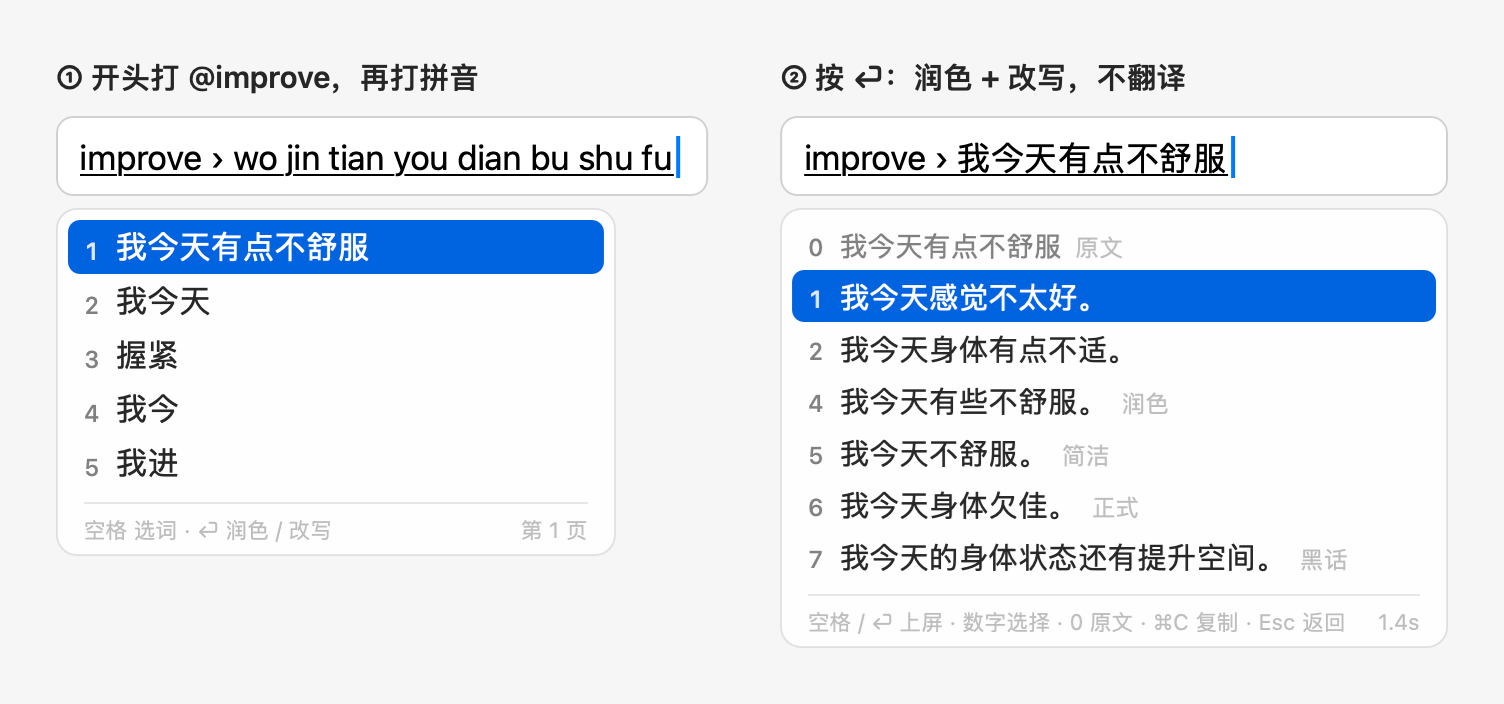
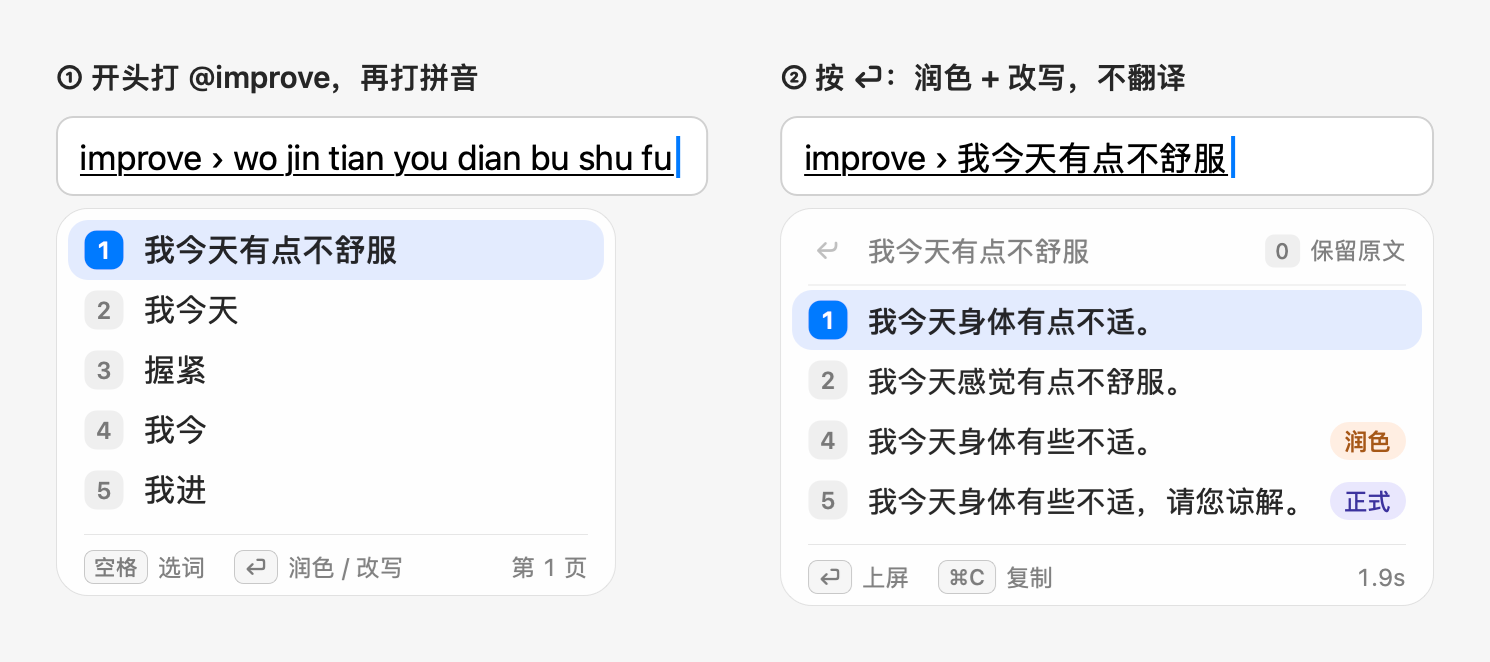
Site for 0.7.0: one @ first, new panel images
The hero and the first section are one @: @ and anything, the likeliest action first,
nothing sent or run before a row is picked. The rest checked against 0.7.0: Settings'
search for a setting in a sentence, Troubleshoot under About, ⌘⏎ to go on elsewhere,
per-app input learned, update notifications, clipboard history, Traditional pinyin,
removing a candidate. Images in the new panel look (one-at, improve, the command list
and an answer, @translate in Chinese) and Settings' Chinese (pinyin) in Traditional;
those no page shows are removed. The AI's answers in them are Apple Intelligence's.

diff --git a/site/public/zh/index.html b/site/public/zh/index.html
@@ -4,13 +4,13 @@
 <meta charset="utf-8">
 <meta name="viewport" content="width=device-width, initial-scale=1">
 <title>AllInOneIME — 在哪打字，就在哪和 AI 对话</title>
-<meta name="description" content="macOS 输入法：在任何 App 里打 @improve、@translate、@question，按回车，选结果。用你自己的 AI 服务，免费，源码公开。也是完整的拼音输入法。">
+<meta name="description" content="macOS 输入法：在任何 App 里打 @，后面写你想做的事：一个问题、要润色或翻译的句子、一个算式、要打开的 App，按回车就行。用你自己的 AI 服务，免费，源码公开。也是完整的拼音输入法。">
 <link rel="icon" href="/favicon.png">
 <link rel="apple-touch-icon" href="/apple-touch-icon.png">
 <link rel="alternate" hreflang="en" href="https://allinoneime.com/">
 <meta property="og:title" content="AllInOneIME — 在哪打字，就在哪和 AI 对话">
-<meta property="og:description" content="在 Mac 的任何 App 里打 @improve、@translate、@question，按回车，选结果。">
-<meta property="og:image" content="https://allinoneime.com/images/demo-zh.png">
+<meta property="og:description" content="在 Mac 的任何 App 里打 @，后面写你想做的事：问 AI、润色或翻译、算算式、打开 App。最可能要做的排在第一行。">
+<meta property="og:image" content="https://allinoneime.com/images/one-at-zh.png">
 <meta property="og:url" content="https://allinoneime.com/zh/">
 <link rel="stylesheet" href="/style.css">
 </head>
@@ -36,7 +36,7 @@
       <img class="hero-icon" src="/images/icon.png" alt="AllInOneIME">
       <div class="eyebrow">macOS 输入法</div>
       <h1>在哪打字，<br>就在哪和 AI 对话。</h1>
-      <p class="lead">在 Mac 的任何 App 里，开头打 <code>@improve</code>、<code>@translate</code> 或 <code>@question</code>，按回车，选一个结果。不用复制到聊天窗口，也不用切换 App。</p>
+      <p class="lead">在 Mac 的任何 App 里打 <code>@</code>，后面写你想做的事：一个问题、要润色或翻译的句子、一个算式、要打开的 App。最可能要做的排在第一行，按回车就行。</p>
       <div class="cta">
         <a class="btn btn-primary" href="/download">
           <svg viewBox="0 0 24 24" fill="currentColor" aria-hidden="true"><path d="M16.4 12.6c0-2.6 2.1-3.8 2.2-3.9-1.2-1.8-3.1-2-3.7-2-1.6-.2-3.1.9-3.9.9-.8 0-2-.9-3.4-.9-1.7 0-3.3 1-4.2 2.6-1.8 3.1-.5 7.7 1.3 10.2.9 1.2 1.9 2.6 3.2 2.6 1.3-.1 1.8-.8 3.3-.8 1.6 0 2 .8 3.4.8 1.4 0 2.3-1.3 3.1-2.5 1-1.4 1.4-2.8 1.4-2.9 0 0-2.7-1-2.7-4.1zM13.9 4.9c.7-.9 1.2-2.1 1.1-3.3-1 0-2.3.7-3 1.6-.7.8-1.2 2-1.1 3.2 1.2.1 2.3-.6 3-1.5z"/></svg>
@@ -45,20 +45,35 @@
         <a class="btn btn-ghost" href="https://github.com/MicroZ-LLC/AllInOneIME">在 GitHub 上看</a>
       </div>
       <p class="fineprint">免费 · macOS 14 及以上 · Apple 芯片和 Intel 都能用 · 经过 Apple 公证</p>
-      <div class="shot fade"><img src="/images/demo-zh.png" alt="开头打 @translate 再打拼音，按回车：三种地道的英文说法"></div>
+      <div class="shot fade"><img src="/images/one-at-zh.png" alt="@ 后面打算式、App 名的拼音首字母、带时间的一句话或一个问题：最可能要做的排在第一行"></div>
     </div>
   </div>
 
   <section id="features">
     <div class="wrap">
+      <div class="section-head fade">
+        <h2>打 @，后面随便写。</h2>
+        <p>不用记命令名：每一行都写着回车会做什么。选中一行之前，什么都不发给 AI，什么也不会运行。</p>
+      </div>
+      <div class="grid fade">
+        <div class="card"><div class="cmd"><span class="dot" style="background:#8b5cf6">@</span>命令</div><p>打命令名的开头就能找到它：<code>@tr</code> 就是 <code>@translate</code>。单打一个 <code>@</code> 列出所有命令，常用的在前。</p></div>
+        <div class="card"><div class="cmd"><span class="dot" style="background:#64748b">=</span>算式</div><p><code>@3*7+2</code> 边打边显示 23，回车就填进去。</p></div>
+        <div class="card"><div class="cmd"><span class="dot" style="background:#0ea5e9">↗</span>App 和网址</div><p><code>@xtsz</code> 就是「系统设置」：App 的中文名，用拼音或首字母也能找到。文件夹和网址也一样，回车打开。</p></div>
+        <div class="card"><div class="cmd"><span class="dot" style="background:#ef4444">◷</span>提醒</div><p><code>@明天下午3点开会</code>，回车就加到「提醒事项」里，时间是明天 15:00。</p></div>
+      </div>
+    </div>
+  </section>
+
+  <section class="tight">
+    <div class="wrap">
       <div class="split fade">
         <div class="split-text">
           <span class="tag">@improve</span>
           <h3>写在哪里，就在哪里改得更好。</h3>
-          <p>先给三种润色后的说法，再按你选的风格改写：简洁、正式、口语、委婉，还有大厂黑话。都用你写的那种语言。</p>
+          <p>打 <code>@</code> 再写一句话，第一行就是「改写」。回车先给三种润色后的说法，再按你选的风格改写：简洁、正式、口语、委婉，还有大厂黑话。都用你写的那种语言。</p>
           <p>按数字选一个，或者直接回车选第一个；<code>0</code> 保留原文。</p>
         </div>
-        <div class="shot"><img src="/images/improve-zh.png" alt="@improve 加拼音，按回车：润色和改写" loading="lazy"></div>
+        <div class="shot"><img src="/images/improve-zh.png" alt="@improve 加拼音，按回车：润色和改写，每种风格一个彩色标签" loading="lazy"></div>
       </div>
     </div>
   </section>
@@ -69,10 +84,10 @@
         <div class="split-text">
           <span class="tag">@translate · @question</span>
           <h3>翻译成你要的语言，有问题直接问。</h3>
-          <p><code>@translate</code> 按你排的顺序，每种语言出一行：英文、日语、法语、德语、西班牙语等等。</p>
-          <p><code>@question</code> 直接给答案，可以上屏，也可以 ⌘C 复制。单打一个 <code>@</code> 就是命令列表。</p>
+          <p><code>@translate</code> 按你排的顺序，每种语言出一行：英文、日语、法语、德语、西班牙语等等。写的是别的语言，第一行就是翻译。</p>
+          <p>写的是问题，第一行就是「问 AI」，答案直接显示在原地：可以上屏，也可以 ⌘C 复制。</p>
         </div>
-        <div class="shot"><img src="/images/commands-zh.png" alt="打 @ 弹出命令列表；@question 加问题，回车出答案" loading="lazy"></div>
+        <div class="shot"><img src="/images/demo-zh.png" alt="开头打 @translate 再打拼音，按回车：三种地道的英文说法" loading="lazy"></div>
       </div>
     </div>
   </section>
@@ -81,13 +96,13 @@
     <div class="wrap">
       <div class="section-head fade">
         <h2>能接着问，说一句就设置好。</h2>
-        <p>答案出来可以接着问。改设置说一句就行，整套设置也能一句话查一遍。</p>
+        <p>答案出来可以接着问。改设置说一句就行，整套设置也能一键查一遍。</p>
       </div>
       <div class="grid fade">
-        <div class="card"><div class="cmd"><span class="dot" style="background:#a855f7">⇄</span>接着问</div><p><code>@question</code> 的答案出来后，接着打下一个问题再按 ⇧回车：候选框变成一段对话，最多 5 轮。</p></div>
-        <div class="card"><div class="cmd"><span class="dot" style="background:#f97316">↗</span>换个地方接着聊</div><p>按 ⌘1、⌘2… 把对话照你看到的样子带到你的编程 agent（Claude Code…）、Claude、ChatGPT 或 Gemini，连同你接着打的话。</p></div>
-        <div class="card"><div class="cmd"><span class="dot" style="background:#a855f7">✦</span>一句话改设置</div><p>设置打开就是「助手」：写「候选竖排」「用 Claude」，每项改动先列出原来 → 改成再应用，还能撤销。不碰你的密钥。</p></div>
-        <div class="card"><div class="cmd"><span class="dot" style="background:#22c55e">✚</span>检查问题</div><p>设置 → 助手检查输入法、AI 服务、权限和语言包，能修的点「修复」就行。也可以问它哪里不对。</p></div>
+        <div class="card"><div class="cmd"><span class="dot" style="background:#a855f7">⇄</span>接着问</div><p>答案出来后，接着打下一个问题再按 ⇧回车：候选框变成一段对话，默认最多 5 轮。</p></div>
+        <div class="card"><div class="cmd"><span class="dot" style="background:#f97316">↗</span>换个地方接着聊</div><p>按 ⌘回车，把对话照你看到的样子带到你的编程 agent（Claude Code…）、Claude 或 ChatGPT 里接着聊。</p></div>
+        <div class="card"><div class="cmd"><span class="dot" style="background:#a855f7">✦</span>一句话改设置</div><p>在设置的搜索框里写「候选竖排」「用 Claude」：每项改动先列出原来 → 改成再应用，还能撤销。不碰你的密钥。</p></div>
+        <div class="card"><div class="cmd"><span class="dot" style="background:#22c55e">✚</span>排查问题</div><p>设置 →「关于」→「排查问题」检查输入法、AI 服务、权限和语言包，能修的给你一个按钮。也可以问它哪里不对。</p></div>
       </div>
     </div>
   </section>
@@ -100,13 +115,11 @@
       </div>
       <div class="grid fade">
         <div class="card"><div class="cmd"><span class="dot" style="background:#3b82f6">↻</span>修改结果</div><p>结果出来后打「更短」「更正式」再按 ⇧回车，新结果就地替换，想改几次都行。</p></div>
-        <div class="card"><div class="cmd"><span class="dot" style="background:#14b8a6">▭</span>选中的文字</div><p>在任何 App 里选中一段文字，再打 <code>@improve</code> 或 <code>@translate</code>：选好的结果替换选中的文字。</p></div>
-        <div class="card"><div class="cmd"><span class="dot" style="background:#a855f7">?</span>最近的问题</div><p>单打 <code>@question</code> 列出最近 5 个问题，当时的答案马上就能看，不联网。</p></div>
-        <div class="card"><div class="cmd"><span class="dot" style="background:#f59e0b">▦</span>按 App 设置</div><p>Slack 里用英文，微信里用拼音，邮件里正式、委婉，或者某个 App 里干脆不用 AI。</p></div>
+        <div class="card"><div class="cmd"><span class="dot" style="background:#14b8a6">▭</span>选中的文字</div><p>在任何 App 里选中一段文字再打 <code>@</code>：翻译、改写，在聊天 App 里还能回复，或者就这段文字提问。选好的版本替换选中的文字。</p></div>
+        <div class="card"><div class="cmd"><span class="dot" style="background:#f59e0b">▦</span>按 App 设置</div><p>每个 App 会记住你在那里先用哪种输入。也可以让某些 App 里干脆不用 AI。</p></div>
         <div class="card"><div class="cmd"><span class="dot" style="background:#334155">●</span>隐藏敏感信息</div><p>打开后，邮箱、电话、卡号、密钥和你自己加的词，发给 AI 前先换成占位符，结果里再换回来。</p></div>
         <div class="card"><div class="cmd"><span class="dot" style="background:#0ea5e9">◎</span>Apple Intelligence</div><p>Mac 支持 Apple Intelligence（macOS 26）时，可以用 macOS 自带的模型：不用 key，不花钱，不离开这台 Mac。</p></div>
-        <div class="card"><div class="cmd"><span class="dot" style="background:#22c55e">↓</span>应用内更新</div><p>设置 →「关于」发现新版本，点一下就装好，装之前先和签名的更新信息核对。</p></div>
-        <div class="card"><div class="cmd"><span class="dot" style="background:#ef4444">!</span>@reportissue</div><p>打开 GitHub 的新问题页，带上你写的标题、App 的版本和设置；不带你别的文字、路径和密钥。</p></div>
+        <div class="card"><div class="cmd"><span class="dot" style="background:#22c55e">↓</span>应用内更新</div><p>有新版本时会发通知，点「更新」一下就装好；装之前先和签名的更新信息核对。</p></div>
       </div>
     </div>
   </section>
@@ -115,15 +128,14 @@
     <div class="wrap">
       <div class="section-head fade">
         <h2>不只是写字，整台 Mac 都能用。</h2>
-        <p>每个命令都以 <code>@</code> 开头，在任何输入框里都能用。</p>
+        <p>在任何输入框里，<code>@</code> 后面打命令名就行。</p>
       </div>
       <div class="grid fade">
         <div class="card"><div class="cmd"><span class="dot" style="background:#f97316">✦</span>@agent</div><p>把任务交给你的编程 agent（Claude Code、Gemini CLI、Kiro CLI…）；Claude Code 可以在后台做，做完通知你。</p></div>
-        <div class="card"><div class="cmd"><span class="dot" style="background:#64748b">⌕</span>@open</div><p>边打边找文件、文件夹和 App，也能打开网址。</p></div>
         <div class="card"><div class="cmd"><span class="dot" style="background:#eab308">✎</span>@note</div><p>把文字存进「备忘录」，换行都保留。</p></div>
-        <div class="card"><div class="cmd"><span class="dot" style="background:#ef4444">◷</span>@reminder</div><p>加一个提醒，时间直接写在里面：「明天下午3点给张三打电话」。</p></div>
         <div class="card"><div class="cmd"><span class="dot" style="background:#0ea5e9">›_</span>@py · @js</div><p>运行一行 Python 或 JavaScript，把结果上屏。</p></div>
         <div class="card"><div class="cmd"><span class="dot" style="background:#10b981">✉</span>@imessage</div><p>不离开当前 App 就能发 iMessage。</p></div>
+        <div class="card"><div class="cmd"><span class="dot" style="background:#64748b">⌃V</span>剪贴板历史</div><p>按 ⌃V 列出复制过的文字和图片；指着图片那一行就能看大图。</p></div>
         <div class="card"><div class="cmd"><span class="dot" style="background:#8b5cf6">＋</span>自己加</div><p>自己的 AI 指令、程序、网页链接，还有签过名的插件库里的 <code>@stock</code>、<code>@calculator</code> 等插件。</p></div>
       </div>
     </div>
@@ -162,15 +174,15 @@
     <div class="wrap">
       <div class="section-head fade">
         <h2>你的 AI，你的密钥，你的 Mac。</h2>
-        <p>只连你选的 AI 服务，用你自己的密钥，而且只在你对命令按回车的时候。</p>
+        <p>只连你选的 AI 服务，用你自己的密钥，而且只在你让它做事的时候。</p>
       </div>
       <div class="pillars fade">
-        <div class="card pillar"><h4>打字时什么都不发</h4><p>只有执行命令时才发出去。密码框和其他安全输入时，从不发送。</p></div>
+        <div class="card pillar"><h4>选中之前什么都不发</h4><p><code>@</code> 后面打的字，在你选中 AI 那一行之前都留在本机；打开「续写」的话，停顿时会发出去。安全输入时（比如密码框）没有 AI 那几行。</p></div>
         <div class="card pillar"><h4>密钥在钥匙串里</h4><p>API 密钥存在 macOS 钥匙串里，每个只发给保存时的那个服务。</p></div>
-        <div class="card pillar"><h4>能在本机的都在本机</h4><p><code>@open</code>、<code>@note</code> 和 <code>@reminder</code> 都不离开你的 Mac。</p></div>
+        <div class="card pillar"><h4>能在本机的都在本机</h4><p><code>@</code> 后面那几行都在本机算出来；算式、App、文件夹和 <code>@reminder</code> 都不离开你的 Mac。</p></div>
         <div class="card pillar"><h4>敏感内容先隐藏</h4><p>可以打开：邮箱、号码、密钥和你列出的词，请求发出前先在本机换成占位符。</p></div>
-        <div class="card pillar"><h4>也可以完全不上云</h4><p>macOS 26 上用 Apple Intelligence，由 Mac 自带的模型回答。你指定的 App 里，干脆不用 AI。</p></div>
-        <div class="card pillar"><h4>签名并经过公证</h4><p>用 Developer ID 签名，经过 Apple 公证。更新装之前先和签名的更新信息核对。</p></div>
+        <div class="card pillar"><h4>也可以完全不上云</h4><p>macOS 26 上选 Apple Intelligence，由 Mac 自带的模型回答。你指定的 App 里，干脆不用 AI。</p></div>
+        <div class="card pillar"><h4>签名并经过公证</h4><p>用 Developer ID 签名，经过 Apple 公证。更新先和签名的更新信息核对，才会安装。</p></div>
       </div>
       <div class="providers fade">
         <span>Amazon Bedrock</span><span>Claude API</span><span>Gemini</span><span>OpenAI</span><span>DeepSeek</span><span>Ollama（本机）</span><span>Apple Intelligence（本机）</span>
@@ -184,10 +196,11 @@
         <div class="split-text">
           <span class="tag">输入语言</span>
           <h3>英文、中文、法语、韩语、印地语。</h3>
-          <p>中文用拼音（基于 Rime 和雾凇拼音，分不清的音可以开模糊音），法语用它自己的键盘布局，韩语打谚文，印地语用拉丁字母拼出天城文。单按 Shift 切到下一种。</p>
+          <p>中文用拼音（基于 Rime 和雾凇拼音，分不清的音可以开模糊音），简体、繁体（台湾或香港）都能打；法语用它自己的键盘布局，韩语打谚文，印地语用拉丁字母拼出天城文。单按 Shift 切到下一种。</p>
+          <p>不想再看到的候选词，右键一下就永久删掉；想找回来，在设置里恢复。</p>
           <p>中文、韩语和印地语是语言包，添加时下载。</p>
         </div>
-        <div class="shot"><img src="/images/settings-languages-zh.png" alt="设置：五种输入语言，和韩语的语言包" loading="lazy"></div>
+        <div class="shot"><img src="/images/settings-chinese-zh.png" alt="设置 → 输入：中文拼音打繁体（台湾），开着模糊音" loading="lazy"></div>
       </div>
     </div>
   </section>

diff --git a/site/public/index.html b/site/public/index.html
@@ -4,13 +4,13 @@
 <meta charset="utf-8">
 <meta name="viewport" content="width=device-width, initial-scale=1">
 <title>AllInOneIME — Talk to AI wherever you type</title>
-<meta name="description" content="A macOS input method with AI commands in every text field: type @improve, @translate or @question in any app, press Return, pick the result. Your own AI provider, or Apple Intelligence on your Mac. Free, with source on GitHub.">
+<meta name="description" content="A macOS input method with AI in every text field: type @ and anything in any app, a question, a sentence to improve or translate, a sum, an app to open, and press Return. Your own AI provider, or Apple Intelligence on your Mac. Free, with source on GitHub.">
 <link rel="icon" href="/favicon.png">
 <link rel="apple-touch-icon" href="/apple-touch-icon.png">
 <link rel="alternate" hreflang="zh" href="https://allinoneime.com/zh/">
 <meta property="og:title" content="AllInOneIME — Talk to AI wherever you type">
-<meta property="og:description" content="Type @improve, @translate or @question in any app on your Mac, press Return, pick the result.">
-<meta property="og:image" content="https://allinoneime.com/images/demo.png">
+<meta property="og:description" content="Type @ and anything in any app on your Mac: ask the AI, improve or translate a sentence, work out a sum, open an app. The likeliest action comes first.">
+<meta property="og:image" content="https://allinoneime.com/images/one-at.png">
 <meta property="og:url" content="https://allinoneime.com/">
 <link rel="stylesheet" href="/style.css">
 </head>
@@ -36,7 +36,7 @@
       <img class="hero-icon" src="/images/icon.png" alt="AllInOneIME">
       <div class="eyebrow">An input method for macOS</div>
       <h1>Talk to AI<br>wherever you type.</h1>
-      <p class="lead">Type <code>@improve</code>, <code>@translate</code> or <code>@question</code> in any app on your Mac, press Return, and pick the result. No copying into a chat window, no switching apps.</p>
+      <p class="lead">Type <code>@</code> and anything, in any app on your Mac: a question, a sentence to improve or translate, a sum, an app to open. The likeliest action comes first; press Return.</p>
       <div class="cta">
         <a class="btn btn-primary" href="/download">
           <svg viewBox="0 0 24 24" fill="currentColor" aria-hidden="true"><path d="M16.4 12.6c0-2.6 2.1-3.8 2.2-3.9-1.2-1.8-3.1-2-3.7-2-1.6-.2-3.1.9-3.9.9-.8 0-2-.9-3.4-.9-1.7 0-3.3 1-4.2 2.6-1.8 3.1-.5 7.7 1.3 10.2.9 1.2 1.9 2.6 3.2 2.6 1.3-.1 1.8-.8 3.3-.8 1.6 0 2 .8 3.4.8 1.4 0 2.3-1.3 3.1-2.5 1-1.4 1.4-2.8 1.4-2.9 0 0-2.7-1-2.7-4.1zM13.9 4.9c.7-.9 1.2-2.1 1.1-3.3-1 0-2.3.7-3 1.6-.7.8-1.2 2-1.1 3.2 1.2.1 2.3-.6 3-1.5z"/></svg>
@@ -45,20 +45,35 @@
         <a class="btn btn-ghost" href="https://github.com/MicroZ-LLC/AllInOneIME">View on GitHub</a>
       </div>
       <p class="fineprint">Free · macOS 14 or later · Apple silicon and Intel · Notarized by Apple</p>
-      <div class="shot fade"><img src="/images/demo.png" alt="Type @translate and a sentence, press Return: a line in Spanish, French and German"></div>
+      <div class="shot fade"><img src="/images/one-at.png" alt="@ and a sum, the start of an app's name, a time or a question: the likeliest action is the first row"></div>
     </div>
   </div>
 
   <section id="features">
     <div class="wrap">
+      <div class="section-head fade">
+        <h2>Type @, then anything.</h2>
+        <p>No command names to learn: each row says what Return does. Nothing goes to the AI, and nothing runs, until you pick a row.</p>
+      </div>
+      <div class="grid fade">
+        <div class="card"><div class="cmd"><span class="dot" style="background:#8b5cf6">@</span>Commands</div><p>The start of a name finds its command: <code>@tr</code> for <code>@translate</code>. <code>@</code> alone lists them, the most used first.</p></div>
+        <div class="card"><div class="cmd"><span class="dot" style="background:#64748b">=</span>Sums</div><p><code>@3*7+2</code> shows 23 as you type; Return puts it in.</p></div>
+        <div class="card"><div class="cmd"><span class="dot" style="background:#0ea5e9">↗</span>Apps and links</div><p><code>@cal</code> lists Calendar and Calculator. Folders and web addresses open the same way.</p></div>
+        <div class="card"><div class="cmd"><span class="dot" style="background:#ef4444">◷</span>Reminders</div><p><code>@call Bob tomorrow at 3pm</code>, and Return adds it to Reminders for 3 PM tomorrow.</p></div>
+      </div>
+    </div>
+  </section>
+
+  <section class="tight">
+    <div class="wrap">
       <div class="split fade">
         <div class="split-text">
           <span class="tag">@improve</span>
           <h3>Say it better, right where you wrote it.</h3>
-          <p>Three polished versions of your sentence, then rewrites in the styles you pick: concise, formal, casual, tactful, or big-tech jargon. Always in the language you wrote.</p>
+          <p>Type <code>@</code> and a rough sentence: Improve comes first. Return gives three polished versions, then rewrites in the styles you pick: concise, formal, casual, tactful, or big-tech jargon. Always in the language you wrote.</p>
           <p>Pick one with a digit, or press Return for the first. <code>0</code> keeps what you typed.</p>
         </div>
-        <div class="shot"><img src="/images/improve.png" alt="@improve on a rough sentence: polished versions and rewrites" loading="lazy"></div>
+        <div class="shot"><img src="/images/improve.png" alt="@improve on a rough sentence: polished versions and rewrites, each style on a colored tag" loading="lazy"></div>
       </div>
     </div>
   </section>
@@ -69,10 +84,10 @@
         <div class="split-text">
           <span class="tag">@translate · @question</span>
           <h3>Translate into your languages. Ask anything.</h3>
-          <p><code>@translate</code> writes a line in each language you add: Spanish, French, German, Japanese, Chinese and more, in your order.</p>
-          <p><code>@question</code> answers in place: insert the answer, or copy it with ⌘C. Type <code>@</code> on its own for the list of commands.</p>
+          <p><code>@translate</code> writes a line in each language you add: Spanish, French, German, Japanese, Chinese and more, in your order. A sentence in another language gets Translate first.</p>
+          <p>A question gets Ask AI first, and the answer shows in place: insert it, or copy it with ⌘C.</p>
         </div>
-        <div class="shot"><img src="/images/commands.png" alt="Typing @ opens the command list; @question and a question, then Return for the answer" loading="lazy"></div>
+        <div class="shot"><img src="/images/commands.png" alt="Type @ for the command list; @question and a question, then Return for the answer" loading="lazy"></div>
       </div>
     </div>
   </section>
@@ -81,13 +96,13 @@
     <div class="wrap">
       <div class="section-head fade">
         <h2>Keep asking. Set it up by saying so.</h2>
-        <p>An answer leads to the next question. A setting is a sentence away, and so is a check of your whole setup.</p>
+        <p>An answer leads to the next question. A setting is a sentence away, and a check of your whole setup a click.</p>
       </div>
       <div class="grid fade">
-        <div class="card"><div class="cmd"><span class="dot" style="background:#a855f7">⇄</span>Conversations</div><p>After an <code>@question</code> answer, type the next question and press ⇧Return: the panel becomes the conversation, up to five rounds.</p></div>
-        <div class="card"><div class="cmd"><span class="dot" style="background:#f97316">↗</span>Hand it off</div><p>⌘1, ⌘2 … take the conversation, as you saw it, to your coding agent (Claude Code …), Claude, ChatGPT or Gemini, with what you type next.</p></div>
-        <div class="card"><div class="cmd"><span class="dot" style="background:#a855f7">✦</span>Settings in a sentence</div><p>Settings opens on Assistant: write “candidates in a column” or “use Claude”, and each change shows old → new before it's applied, with Undo. Never your keys.</p></div>
-        <div class="card"><div class="cmd"><span class="dot" style="background:#22c55e">✚</span>Check for problems</div><p>Settings → Assistant checks the input method, your AI provider, permissions and language packs, with a Fix for what it can. Ask it why something fails.</p></div>
+        <div class="card"><div class="cmd"><span class="dot" style="background:#a855f7">⇄</span>Conversations</div><p>After an answer, type the next question and press ⇧Return: the panel becomes the conversation, five rounds by default.</p></div>
+        <div class="card"><div class="cmd"><span class="dot" style="background:#f97316">↗</span>Hand it off</div><p>⌘Return takes the conversation, as you saw it, on to your coding agent (Claude Code …), Claude or ChatGPT.</p></div>
+        <div class="card"><div class="cmd"><span class="dot" style="background:#a855f7">✦</span>Settings in a sentence</div><p>Type “candidates in a column” or “use Claude” in Settings' search: each change shows old → new before it's applied, with Undo. Never your keys.</p></div>
+        <div class="card"><div class="cmd"><span class="dot" style="background:#22c55e">✚</span>Troubleshoot</div><p>Settings → About → Troubleshoot checks the input method, your AI provider, permissions and language packs, with a button for what it can fix. Ask it why something fails.</p></div>
       </div>
     </div>
   </section>
@@ -100,13 +115,11 @@
       </div>
       <div class="grid fade">
         <div class="card"><div class="cmd"><span class="dot" style="background:#3b82f6">↻</span>Refine</div><p>Type <code>shorter</code> or <code>more formal</code> after the results and press ⇧Return: new ones replace them in place, as often as you like.</p></div>
-        <div class="card"><div class="cmd"><span class="dot" style="background:#14b8a6">▭</span>On the selection</div><p>Select text in any app, then type <code>@improve</code> or <code>@translate</code>: the result you pick replaces the selection.</p></div>
-        <div class="card"><div class="cmd"><span class="dot" style="background:#a855f7">?</span>Recent questions</div><p><code>@question</code> on its own lists your last five questions; a saved answer shows at once, offline.</p></div>
-        <div class="card"><div class="cmd"><span class="dot" style="background:#f59e0b">▦</span>Per app</div><p>Slack in English, WeChat in pinyin, Mail formal and tactful, or no AI at all in an app.</p></div>
+        <div class="card"><div class="cmd"><span class="dot" style="background:#14b8a6">▭</span>On the selection</div><p>Select text in any app and type <code>@</code>: translate or improve it, reply to it in a chat app, or ask about it. The version you pick replaces it.</p></div>
+        <div class="card"><div class="cmd"><span class="dot" style="background:#f59e0b">▦</span>Per app</div><p>Each app learns the input you start in there. Turn AI off in the apps you choose.</p></div>
         <div class="card"><div class="cmd"><span class="dot" style="background:#334155">●</span>Hide sensitive info</div><p>Turn it on, and emails, phone numbers, card numbers, keys and your own words become placeholders before the AI sees them, then come back in the result.</p></div>
         <div class="card"><div class="cmd"><span class="dot" style="background:#0ea5e9">◎</span>Apple Intelligence</div><p>On a Mac with Apple Intelligence (macOS 26), use the model built into macOS: no key, no cost, nothing leaves the Mac.</p></div>
-        <div class="card"><div class="cmd"><span class="dot" style="background:#22c55e">↓</span>Updates</div><p>Settings → About finds a new version and installs it in a click, checked against a signed manifest first.</p></div>
-        <div class="card"><div class="cmd"><span class="dot" style="background:#ef4444">!</span>@reportissue</div><p>Opens a new GitHub issue with your title and the app's versions and settings; never your other text, paths or keys.</p></div>
+        <div class="card"><div class="cmd"><span class="dot" style="background:#22c55e">↓</span>Updates</div><p>A notification says when a new version is out; Update installs it in a click, checked against a signed manifest first.</p></div>
       </div>
     </div>
   </section>
@@ -115,15 +128,14 @@
     <div class="wrap">
       <div class="section-head fade">
         <h2>Commands for your whole Mac.</h2>
-        <p>Not just writing. Each one starts with <code>@</code>, in any text field.</p>
+        <p>Not just writing. Type a name after <code>@</code>, in any text field.</p>
       </div>
       <div class="grid fade">
         <div class="card"><div class="cmd"><span class="dot" style="background:#f97316">✦</span>@agent</div><p>Hands a task to your coding agent (Claude Code, Gemini CLI, Kiro CLI …); Claude Code can work in the background and notify you when it's done.</p></div>
-        <div class="card"><div class="cmd"><span class="dot" style="background:#64748b">⌕</span>@open</div><p>Finds files, folders and apps as you type, or opens a web address.</p></div>
         <div class="card"><div class="cmd"><span class="dot" style="background:#eab308">✎</span>@note</div><p>Saves the text to Notes, line breaks and all.</p></div>
-        <div class="card"><div class="cmd"><span class="dot" style="background:#ef4444">◷</span>@reminder</div><p>Adds a reminder, reading the time you wrote: "call Bob tomorrow at 3pm".</p></div>
         <div class="card"><div class="cmd"><span class="dot" style="background:#0ea5e9">›_</span>@py · @js</div><p>Runs a line of Python or JavaScript and inserts the result.</p></div>
         <div class="card"><div class="cmd"><span class="dot" style="background:#10b981">✉</span>@imessage</div><p>Sends an iMessage without leaving the app you're in.</p></div>
+        <div class="card"><div class="cmd"><span class="dot" style="background:#64748b">⌃V</span>Clipboard history</div><p>⌃V lists what you copied, text and images; point at an image for a larger preview.</p></div>
         <div class="card"><div class="cmd"><span class="dot" style="background:#8b5cf6">＋</span>Your own</div><p>Your own AI instructions, programs or web links, and plugins like <code>@stock</code> or <code>@calculator</code> from a signed library.</p></div>
       </div>
     </div>
@@ -162,15 +174,15 @@
     <div class="wrap">
       <div class="section-head fade">
         <h2>Your AI. Your keys. Your Mac.</h2>
-        <p>It talks to the AI provider you choose, with your own key, and only when you press Return on a command.</p>
+        <p>It talks to the AI provider you choose, with your own key, and only when you ask it to.</p>
       </div>
       <div class="pillars fade">
-        <div class="card pillar"><h4>Nothing sent while you type</h4><p>Text goes out only when you run a command. Never from password fields or other secure input.</p></div>
+        <div class="card pillar"><h4>Nothing sent until you pick</h4><p>What you type after <code>@</code> stays on your Mac until you pick an AI row; Autocomplete, if you turn it on, sends at a pause. No AI rows during secure input, such as a password field.</p></div>
         <div class="card pillar"><h4>Keys in your keychain</h4><p>API keys stay in the macOS keychain, and each goes only to the service it was saved for.</p></div>
-        <div class="card pillar"><h4>On-device where it can be</h4><p><code>@open</code>, <code>@note</code> and <code>@reminder</code> never leave your Mac.</p></div>
+        <div class="card pillar"><h4>On-device where it can be</h4><p>The rows after <code>@</code> are worked out on your Mac; sums, apps, folders and <code>@reminder</code> never leave it.</p></div>
         <div class="card pillar"><h4>Sensitive values hidden</h4><p>Optionally, emails, numbers, keys and words you list are replaced with placeholders on your Mac before a request goes out.</p></div>
-        <div class="card pillar"><h4>Or no cloud at all</h4><p>With Apple Intelligence on macOS 26, the model built into your Mac answers. In apps you choose, no AI runs at all.</p></div>
-        <div class="card pillar"><h4>Signed and notarized</h4><p>Signed with a Developer ID and notarized by Apple. Updates are checked against a signed manifest before they're installed.</p></div>
+        <div class="card pillar"><h4>Or no cloud at all</h4><p>Choose Apple Intelligence on macOS 26, and the model built into your Mac answers. In apps you choose, no AI runs at all.</p></div>
+        <div class="card pillar"><h4>Signed and notarized</h4><p>Signed with a Developer ID and notarized by Apple. An update installs only after it's checked against a signed manifest.</p></div>
       </div>
       <div class="providers fade">
         <span>Amazon Bedrock</span><span>Claude API</span><span>Gemini</span><span>OpenAI</span><span>DeepSeek</span><span>Ollama, on your Mac</span><span>Apple Intelligence, on your Mac</span>
@@ -184,10 +196,11 @@
         <div class="split-text">
           <span class="tag">Input languages</span>
           <h3>English, Chinese, French, Korean and Hindi.</h3>
-          <p>Type English, Chinese in pinyin (built on Rime and rime-ice, with fuzzy pinyin), French on its own keyboard layout, Korean Hangul, or Hindi in Devanagari from Latin letters. Tap Shift for the next one.</p>
+          <p>Type English, Chinese in pinyin (built on Rime and rime-ice, with fuzzy pinyin) in Simplified or Traditional characters (Taiwan or Hong Kong), French on its own keyboard layout, Korean Hangul, or Hindi in Devanagari from Latin letters. Tap Shift for the next one.</p>
+          <p>Right-click a pinyin candidate to remove it for good; Settings brings it back.</p>
           <p>Chinese, Korean and Hindi are language packs, downloaded when you add them.</p>
         </div>
-        <div class="shot"><img src="/images/settings-languages.png" alt="Settings: five input languages, and the Korean language pack" loading="lazy"></div>
+        <div class="shot"><img src="/images/settings-chinese.png" alt="Settings → Input: Chinese (pinyin) in Traditional characters (Taiwan), with fuzzy pinyin" loading="lazy"></div>
       </div>
     </div>
   </section>
